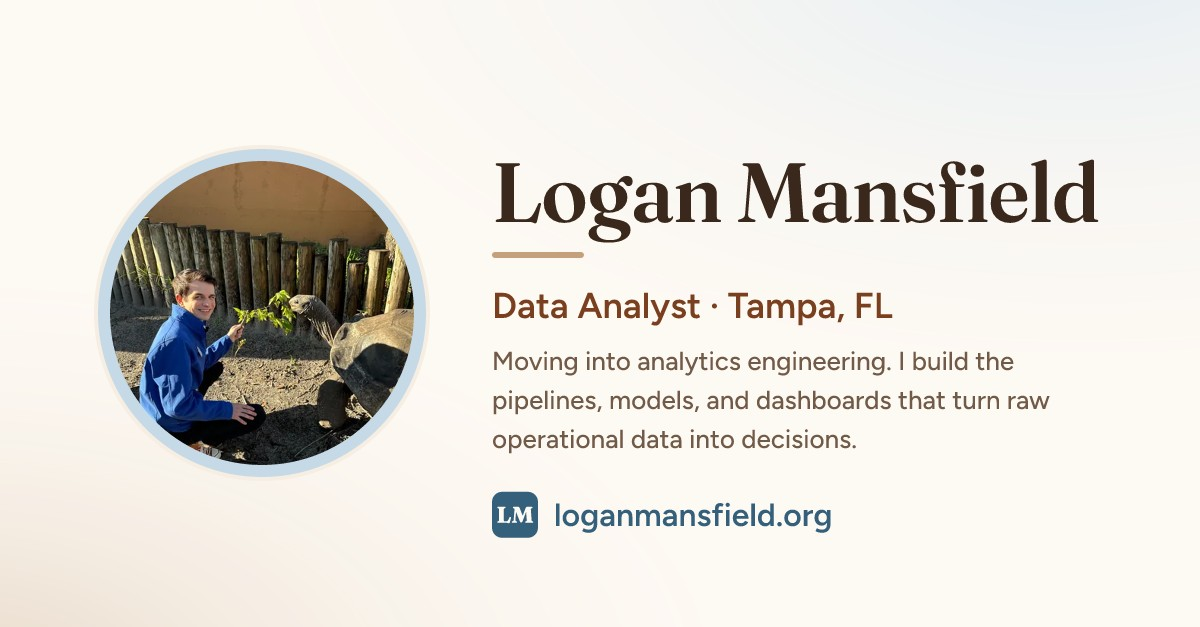
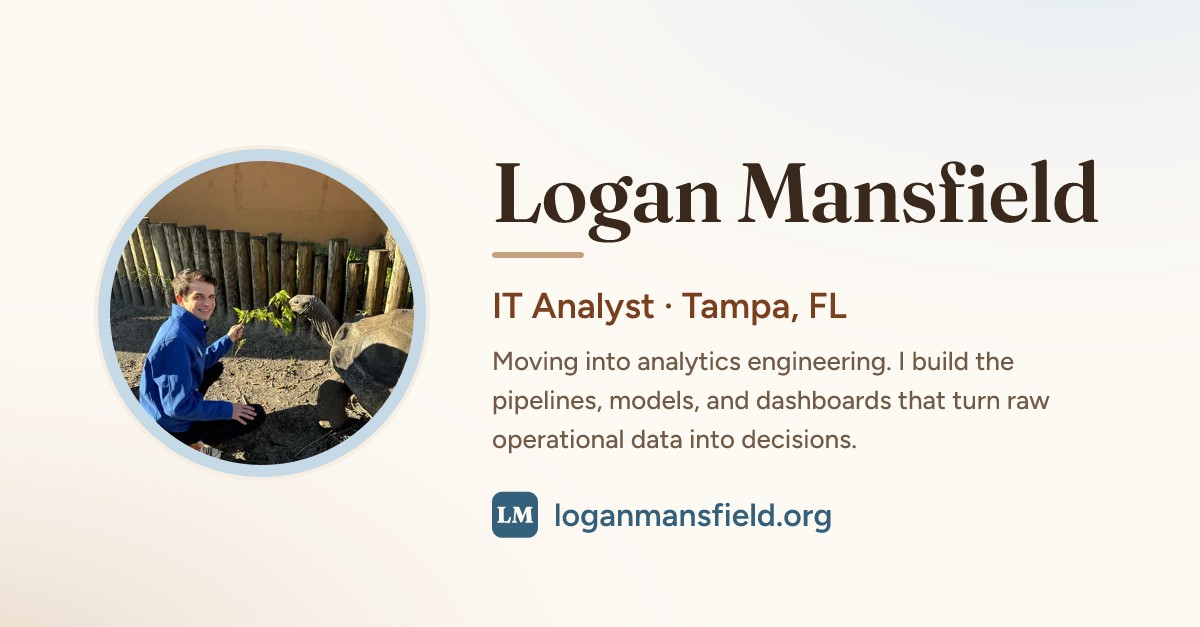
Change the Home headline and link preview to IT Analyst (#71)
* Change the Home headline and link preview to IT Analyst

The Home hero now opens "IT analyst moving into analytics engineering",
and the link preview (og:title and og:description) says IT Analyst.
site.sql is regenerated so the hero's SQL source still matches. The page
title, JSON-LD, résumé, share card image and its alt text are unchanged.

* Redraw the share card to read IT Analyst

Rebuilt assets/share-card.jpg with scripts/build_brand_images.py after
changing its role line to "IT Analyst · Tampa, FL"; the rest of the card is
unchanged (the old script reproduces the old card byte for byte, and the
icon outputs are identical). The og:image:alt and twitter:image:alt text on
every page now match the new card.

---------

Changed region(s): [[0.4008, 0.4545, 0.74, 0.5152]]

diff --git a/index.html b/index.html
@@ -9,8 +9,8 @@
     <meta name="robots" content="index, follow, max-image-preview:large, max-snippet:-1">
     <meta property="og:site_name" content="Logan Mansfield">
     <meta property="og:locale" content="en_US">
-    <meta property="og:title" content="Logan Mansfield · Data Analyst · Tampa, FL">
-    <meta property="og:description" content="Data Analyst in Tampa, FL. SQL, Python, Power BI, and end-to-end data pipelines.">
+    <meta property="og:title" content="Logan Mansfield · IT Analyst · Tampa, FL">
+    <meta property="og:description" content="IT Analyst in Tampa, FL. SQL, Python, Power BI, and end-to-end data pipelines.">
     <meta property="og:type" content="profile">
     <meta property="profile:first_name" content="Logan">
     <meta property="profile:last_name" content="Mansfield">
@@ -19,10 +19,10 @@
     <meta property="og:image:type" content="image/jpeg">
     <meta property="og:image:width" content="1200">
     <meta property="og:image:height" content="627">
-    <meta property="og:image:alt" content="Logan Mansfield, Data Analyst in Tampa, FL, moving into analytics engineering. loganmansfield.org">
+    <meta property="og:image:alt" content="Logan Mansfield, IT Analyst in Tampa, FL, moving into analytics engineering. loganmansfield.org">
     <meta name="twitter:card" content="summary_large_image">
     <meta name="twitter:image" content="https://loganmansfield.org/assets/share-card.jpg">
-    <meta name="twitter:image:alt" content="Logan Mansfield, Data Analyst in Tampa, FL, moving into analytics engineering. loganmansfield.org">
+    <meta name="twitter:image:alt" content="Logan Mansfield, IT Analyst in Tampa, FL, moving into analytics engineering. loganmansfield.org">
     <meta name="twitter:site" content="@StatBird">
     <meta name="twitter:creator" content="@StatBird">
     <link rel="canonical" href="https://loganmansfield.org/">
@@ -146,7 +146,7 @@
                 <div class="hero__intro">
                     <h1 class="hero__name" id="home-name">Logan Mansfield.</h1>
                     <p class="hero__role">
-                        Data analyst moving into <em>analytics engineering</em>: I build the pipelines, models, and dashboards that turn raw operational data into decisions. By day I own the ticketing and webstore platforms behind ZooTampa&rsquo;s admissions revenue; my SQL, Python, and modeling work is self-driven and on GitHub.
+                        IT analyst moving into <em>analytics engineering</em>: I build the pipelines, models, and dashboards that turn raw operational data into decisions. By day I own the ticketing and webstore platforms behind ZooTampa&rsquo;s admissions revenue; my SQL, Python, and modeling work is self-driven and on GitHub.
                     </p>
                     <div class="contact-row" role="group" aria-label="Contact">
                         <a class="btn btn--primary" href="/assets/loganmansfield.pdf" target="_blank" rel="noopener">Résumé <span class="btn__meta">PDF</span> <span class="arrow" aria-hidden="true">↗</span></a>

diff --git a/404.html b/404.html
@@ -14,10 +14,10 @@
     <meta property="og:image:type" content="image/jpeg">
     <meta property="og:image:width" content="1200">
     <meta property="og:image:height" content="627">
-    <meta property="og:image:alt" content="Logan Mansfield, Data Analyst in Tampa, FL, moving into analytics engineering. loganmansfield.org">
+    <meta property="og:image:alt" content="Logan Mansfield, IT Analyst in Tampa, FL, moving into analytics engineering. loganmansfield.org">
     <meta name="twitter:card" content="summary_large_image">
     <meta name="twitter:image" content="https://loganmansfield.org/assets/share-card.jpg">
-    <meta name="twitter:image:alt" content="Logan Mansfield, Data Analyst in Tampa, FL, moving into analytics engineering. loganmansfield.org">
+    <meta name="twitter:image:alt" content="Logan Mansfield, IT Analyst in Tampa, FL, moving into analytics engineering. loganmansfield.org">
     <meta name="twitter:site" content="@StatBird">
     <link rel="icon" href="/favicon.ico" sizes="48x48">
     <link rel="icon" href="/assets/favicon.svg" type="image/svg+xml">

diff --git a/owl-park-infographic.html b/owl-park-infographic.html
@@ -16,10 +16,10 @@
     <meta property="og:image:type" content="image/jpeg">
     <meta property="og:image:width" content="1200">
     <meta property="og:image:height" content="627">
-    <meta property="og:image:alt" content="Logan Mansfield, Data Analyst in Tampa, FL, moving into analytics engineering. loganmansfield.org">
+    <meta property="og:image:alt" content="Logan Mansfield, IT Analyst in Tampa, FL, moving into analytics engineering. loganmansfield.org">
     <meta name="twitter:card" content="summary_large_image">
     <meta name="twitter:image" content="https://loganmansfield.org/assets/share-card.jpg">
-    <meta name="twitter:image:alt" content="Logan Mansfield, Data Analyst in Tampa, FL, moving into analytics engineering. loganmansfield.org">
+    <meta name="twitter:image:alt" content="Logan Mansfield, IT Analyst in Tampa, FL, moving into analytics engineering. loganmansfield.org">
     <meta name="twitter:site" content="@StatBird">
     <link rel="canonical" href="https://loganmansfield.org/owl-park">
     <link rel="icon" href="/favicon.ico" sizes="48x48">

diff --git a/projects.html b/projects.html
@@ -16,10 +16,10 @@
     <meta property="og:image:type" content="image/jpeg">
     <meta property="og:image:width" content="1200">
     <meta property="og:image:height" content="627">
-    <meta property="og:image:alt" content="Logan Mansfield, Data Analyst in Tampa, FL, moving into analytics engineering. loganmansfield.org">
+    <meta property="og:image:alt" content="Logan Mansfield, IT Analyst in Tampa, FL, moving into analytics engineering. loganmansfield.org">
     <meta name="twitter:card" content="summary_large_image">
     <meta name="twitter:image" content="https://loganmansfield.org/assets/share-card.jpg">
-    <meta name="twitter:image:alt" content="Logan Mansfield, Data Analyst in Tampa, FL, moving into analytics engineering. loganmansfield.org">
+    <meta name="twitter:image:alt" content="Logan Mansfield, IT Analyst in Tampa, FL, moving into analytics engineering. loganmansfield.org">
     <meta name="twitter:site" content="@StatBird">
     <link rel="canonical" href="https://loganmansfield.org/projects">
     <link rel="icon" href="/favicon.ico" sizes="48x48">

diff --git a/catalog.html b/catalog.html
@@ -16,10 +16,10 @@
     <meta property="og:image:type" content="image/jpeg">
     <meta property="og:image:width" content="1200">
     <meta property="og:image:height" content="627">
-    <meta property="og:image:alt" content="Logan Mansfield, Data Analyst in Tampa, FL, moving into analytics engineering. loganmansfield.org">
+    <meta property="og:image:alt" content="Logan Mansfield, IT Analyst in Tampa, FL, moving into analytics engineering. loganmansfield.org">
     <meta name="twitter:card" content="summary_large_image">
     <meta name="twitter:image" content="https://loganmansfield.org/assets/share-card.jpg">
-    <meta name="twitter:image:alt" content="Logan Mansfield, Data Analyst in Tampa, FL, moving into analytics engineering. loganmansfield.org">
+    <meta name="twitter:image:alt" content="Logan Mansfield, IT Analyst in Tampa, FL, moving into analytics engineering. loganmansfield.org">
     <meta name="twitter:site" content="@StatBird">
     <link rel="canonical" href="https://loganmansfield.org/catalog">
     <link rel="icon" href="/favicon.ico" sizes="48x48">

diff --git a/status.html b/status.html
@@ -16,10 +16,10 @@
     <meta property="og:image:type" content="image/jpeg">
     <meta property="og:image:width" content="1200">
     <meta property="og:image:height" content="627">
-    <meta property="og:image:alt" content="Logan Mansfield, Data Analyst in Tampa, FL, moving into analytics engineering. loganmansfield.org">
+    <meta property="og:image:alt" content="Logan Mansfield, IT Analyst in Tampa, FL, moving into analytics engineering. loganmansfield.org">
     <meta name="twitter:card" content="summary_large_image">
     <meta name="twitter:image" content="https://loganmansfield.org/assets/share-card.jpg">
-    <meta name="twitter:image:alt" content="Logan Mansfield, Data Analyst in Tampa, FL, moving into analytics engineering. loganmansfield.org">
+    <meta name="twitter:image:alt" content="Logan Mansfield, IT Analyst in Tampa, FL, moving into analytics engineering. loganmansfield.org">
     <meta name="twitter:site" content="@StatBird">
     <link rel="canonical" href="https://loganmansfield.org/status">
     <link rel="icon" href="/favicon.ico" sizes="48x48">

diff --git a/live.html b/live.html
@@ -16,10 +16,10 @@
     <meta property="og:image:type" content="image/jpeg">
     <meta property="og:image:width" content="1200">
     <meta property="og:image:height" content="627">
-    <meta property="og:image:alt" content="Logan Mansfield, Data Analyst in Tampa, FL, moving into analytics engineering. loganmansfield.org">
+    <meta property="og:image:alt" content="Logan Mansfield, IT Analyst in Tampa, FL, moving into analytics engineering. loganmansfield.org">
     <meta name="twitter:card" content="summary_large_image">
     <meta name="twitter:image" content="https://loganmansfield.org/assets/share-card.jpg">
-    <meta name="twitter:image:alt" content="Logan Mansfield, Data Analyst in Tampa, FL, moving into analytics engineering. loganmansfield.org">
+    <meta name="twitter:image:alt" content="Logan Mansfield, IT Analyst in Tampa, FL, moving into analytics engineering. loganmansfield.org">
     <meta name="twitter:site" content="@StatBird">
     <link rel="canonical" href="https://loganmansfield.org/live">
     <link rel="icon" href="/favicon.ico" sizes="48x48">

diff --git a/scripts/build_console_data.py b/scripts/build_console_data.py
@@ -206,7 +206,7 @@ def credentials(doc):
 def resume(doc):
     main = main_of(doc)
     name = main.find(cls="hero__name").clean_text().rstrip(".")
-    # The hero's first clause ("Data analyst moving into analytics
+    # The hero's first clause ("IT analyst moving into analytics
     # engineering: I build…"), with inline tags such as <em> flattened.
     headline = main.find(cls="hero__role").clean_text().split(":", 1)[0].strip()
     # The footer brand reads "Logan Mansfield · Tampa, FL".

diff --git a/scripts/build_brand_images.py b/scripts/build_brand_images.py
@@ -177,7 +177,7 @@ def share_card_svg(f, photo_png: bytes) -> str:
     name, name_size = "Logan Mansfield", 84
     while f["display"].width(name, name_size, -0.01) > maxw:
         name_size -= 1
-    role, role_size = "Data Analyst · Tampa, FL", 36
+    role, role_size = "IT Analyst · Tampa, FL", 36
     body = ["Moving into analytics engineering. I build the",
             "pipelines, models, and dashboards that turn raw",
             "operational data into decisions."]
